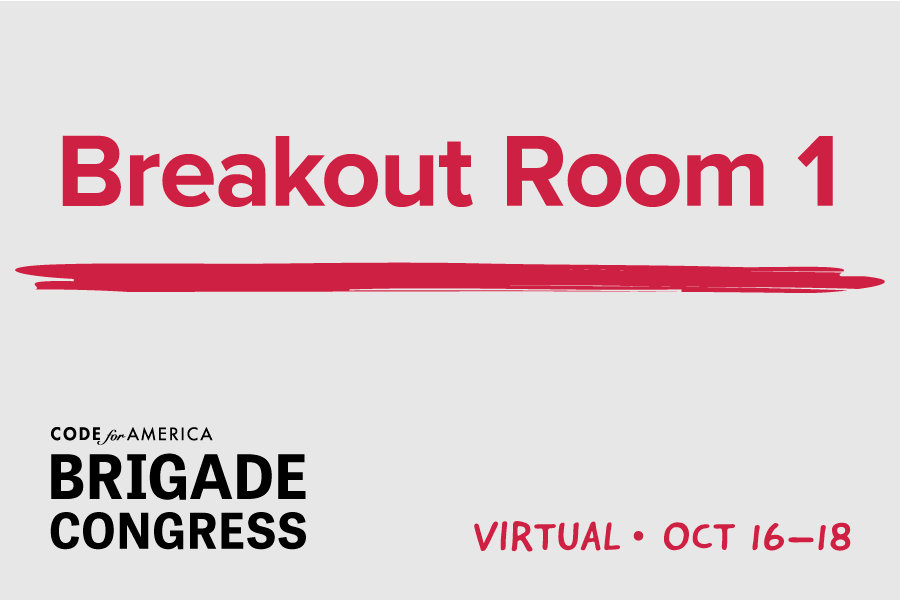
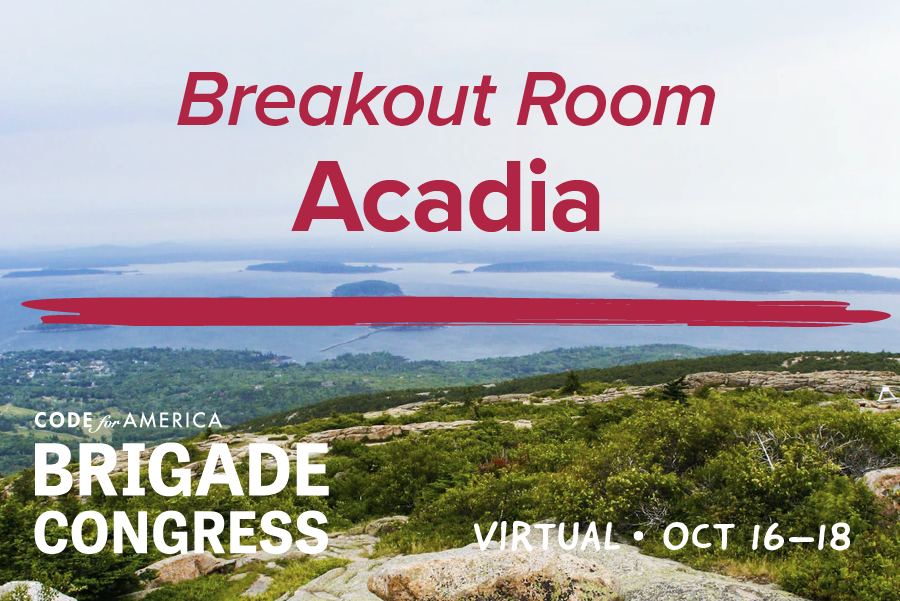
Add images and orientation pages for Main & Breakout Rooms

diff --git a/app/assets/breakout-2.html b/app/assets/breakout-2.html
@@ -1,0 +1,37 @@
+<!DOCTYPE html>
+<html lang="en-us">
+  <head>
+    <meta charset="utf-8">
+    <meta name="viewport" content="width=device-width, initial-scale=1.0"/>
+    <title>Brigade Congress Breakout Room</title>
+    <link rel="stylesheet" href="/app.css">
+
+    <!-- FontAwesome Icons -->
+    <link href="https://use.fontawesome.com/releases/v5.1.0/css/all.css" rel="stylesheet">
+
+    <!-- Font Vendor Stylesheets -->
+    <script src="https://use.typekit.net/lkd6vsz.js"></script>
+    <script>try{Typekit.load();}catch(e){}</script>
+
+    <!-- Application Stylesheets -->
+    <script src="/app.js"></script>
+    <script>require('initialize');</script>
+  </head>
+
+  <body>
+    <section class="slab">
+      <div class="grid-box">
+        <div class="col-4 shift-1">
+          <img src="/images/brigade-congress-2020-breakout-2.png" alt="Breakout Room Logo" />
+        </div>
+
+        <div class="col-5 shift-1">
+          <h3>You are in Breakout Room Biscayne</h3>
+
+          <p>To join Zoom, click the red button that says <strong>Join Video for Breakout Room Acadia</strong> at the top left (underneath the QiqoChat logo).</p>
+        </div>
+      </div>
+    </section>
+  </body>
+
+</html>

diff --git a/app/assets/breakout.html b/app/assets/breakout.html
@@ -1,0 +1,37 @@
+<!DOCTYPE html>
+<html lang="en-us">
+  <head>
+    <meta charset="utf-8">
+    <meta name="viewport" content="width=device-width, initial-scale=1.0"/>
+    <title>Brigade Congress Breakout Room</title>
+    <link rel="stylesheet" href="/app.css">
+
+    <!-- FontAwesome Icons -->
+    <link href="https://use.fontawesome.com/releases/v5.1.0/css/all.css" rel="stylesheet">
+
+    <!-- Font Vendor Stylesheets -->
+    <script src="https://use.typekit.net/lkd6vsz.js"></script>
+    <script>try{Typekit.load();}catch(e){}</script>
+
+    <!-- Application Stylesheets -->
+    <script src="/app.js"></script>
+    <script>require('initialize');</script>
+  </head>
+
+  <body>
+    <section class="slab">
+      <div class="grid-box">
+        <div class="col-4 shift-1">
+          <img src="/images/brigade-congress-2020-main-room.png" alt="Main Room Logo" />
+        </div>
+
+        <div class="col-5 shift-1">
+          <h3>You are in the Main Room</h3>
+
+          <p>To join Zoom, click the red button that says <strong>Join Video for Breakout Room Acadia</strong> at the top left (underneath the QiqoChat logo).</p>
+        </div>
+      </div>
+    </section>
+  </body>
+
+</html>

diff --git a/app/assets/main-room.html b/app/assets/main-room.html
@@ -1,0 +1,37 @@
+<!DOCTYPE html>
+<html lang="en-us">
+  <head>
+    <meta charset="utf-8">
+    <meta name="viewport" content="width=device-width, initial-scale=1.0"/>
+    <title>Brigade Congress Breakout Room</title>
+    <link rel="stylesheet" href="/app.css">
+
+    <!-- FontAwesome Icons -->
+    <link href="https://use.fontawesome.com/releases/v5.1.0/css/all.css" rel="stylesheet">
+
+    <!-- Font Vendor Stylesheets -->
+    <script src="https://use.typekit.net/lkd6vsz.js"></script>
+    <script>try{Typekit.load();}catch(e){}</script>
+
+    <!-- Application Stylesheets -->
+    <script src="/app.js"></script>
+    <script>require('initialize');</script>
+  </head>
+
+  <body>
+    <section class="slab">
+      <div class="grid-box">
+        <div class="col-4 shift-1">
+          <img src="/images/brigade-congress-2020-main-room.png" alt="Main Room Logo" />
+        </div>
+
+        <div class="col-5 shift-1">
+          <h3>You are in the Main Room</h3>
+
+          <p>To join Zoom, click the red button that says <strong>Join Video for Breakout Room Acadia</strong> at the top left (underneath the QiqoChat logo).</p>
+        </div>
+      </div>
+    </section>
+  </body>
+
+</html>

diff --git a/app/assets/breakout-1.html b/app/assets/breakout-1.html
@@ -3,11 +3,8 @@
   <head>
     <meta charset="utf-8">
     <meta name="viewport" content="width=device-width, initial-scale=1.0"/>
-    <title>QiqoChat Main Page</title>
+    <title>Brigade Congress Breakout Room</title>
     <link rel="stylesheet" href="/app.css">
-
-    <link rel="shortcut icon" type="image/x-icon" href="/assets/images/favicon.9939fd6b8cb2ac200280a295de677642.ico">
-    <link rel="apple-touch-icon-precomposed" href="/assets/images/flag-red.f0b8c55bc8af4f97fe953e2192d5b324.png"/>
 
     <!-- FontAwesome Icons -->
     <link href="https://use.fontawesome.com/releases/v5.1.0/css/all.css" rel="stylesheet">
@@ -22,6 +19,19 @@
   </head>
 
   <body>
+    <section class="slab">
+      <div class="grid-box">
+        <div class="col-4 shift-1">
+          <img src="/images/brigade-congress-2020-breakout-1.png" alt="Breakout Room Logo" />
+        </div>
+
+        <div class="col-5 shift-1">
+          <h3>You are in Breakout Room Acadia</h3>
+
+          <p>To join Zoom, click the red button that says <strong>Join Video for Breakout Room Acadia</strong> at the top left (underneath the QiqoChat logo).</p>
+        </div>
+      </div>
+    </section>
   </body>
 
 </html>
